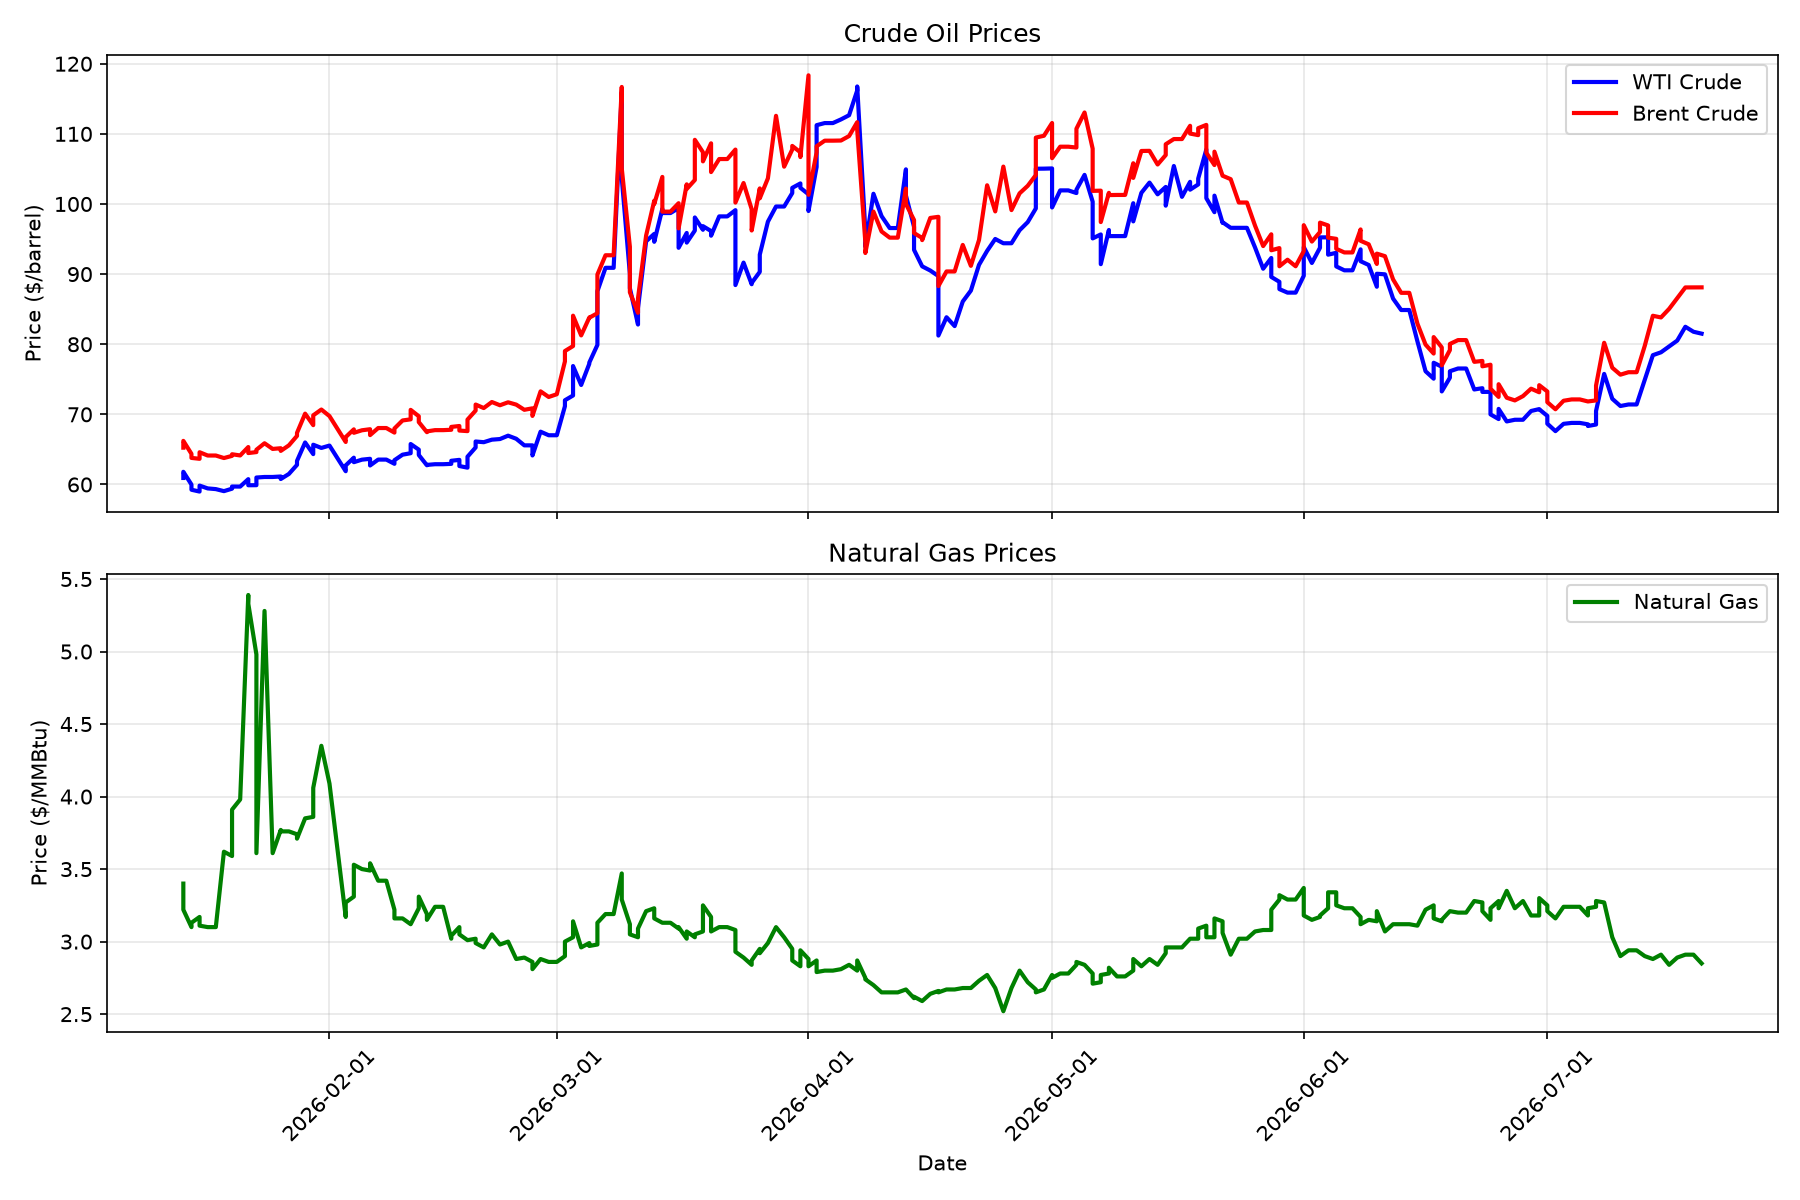
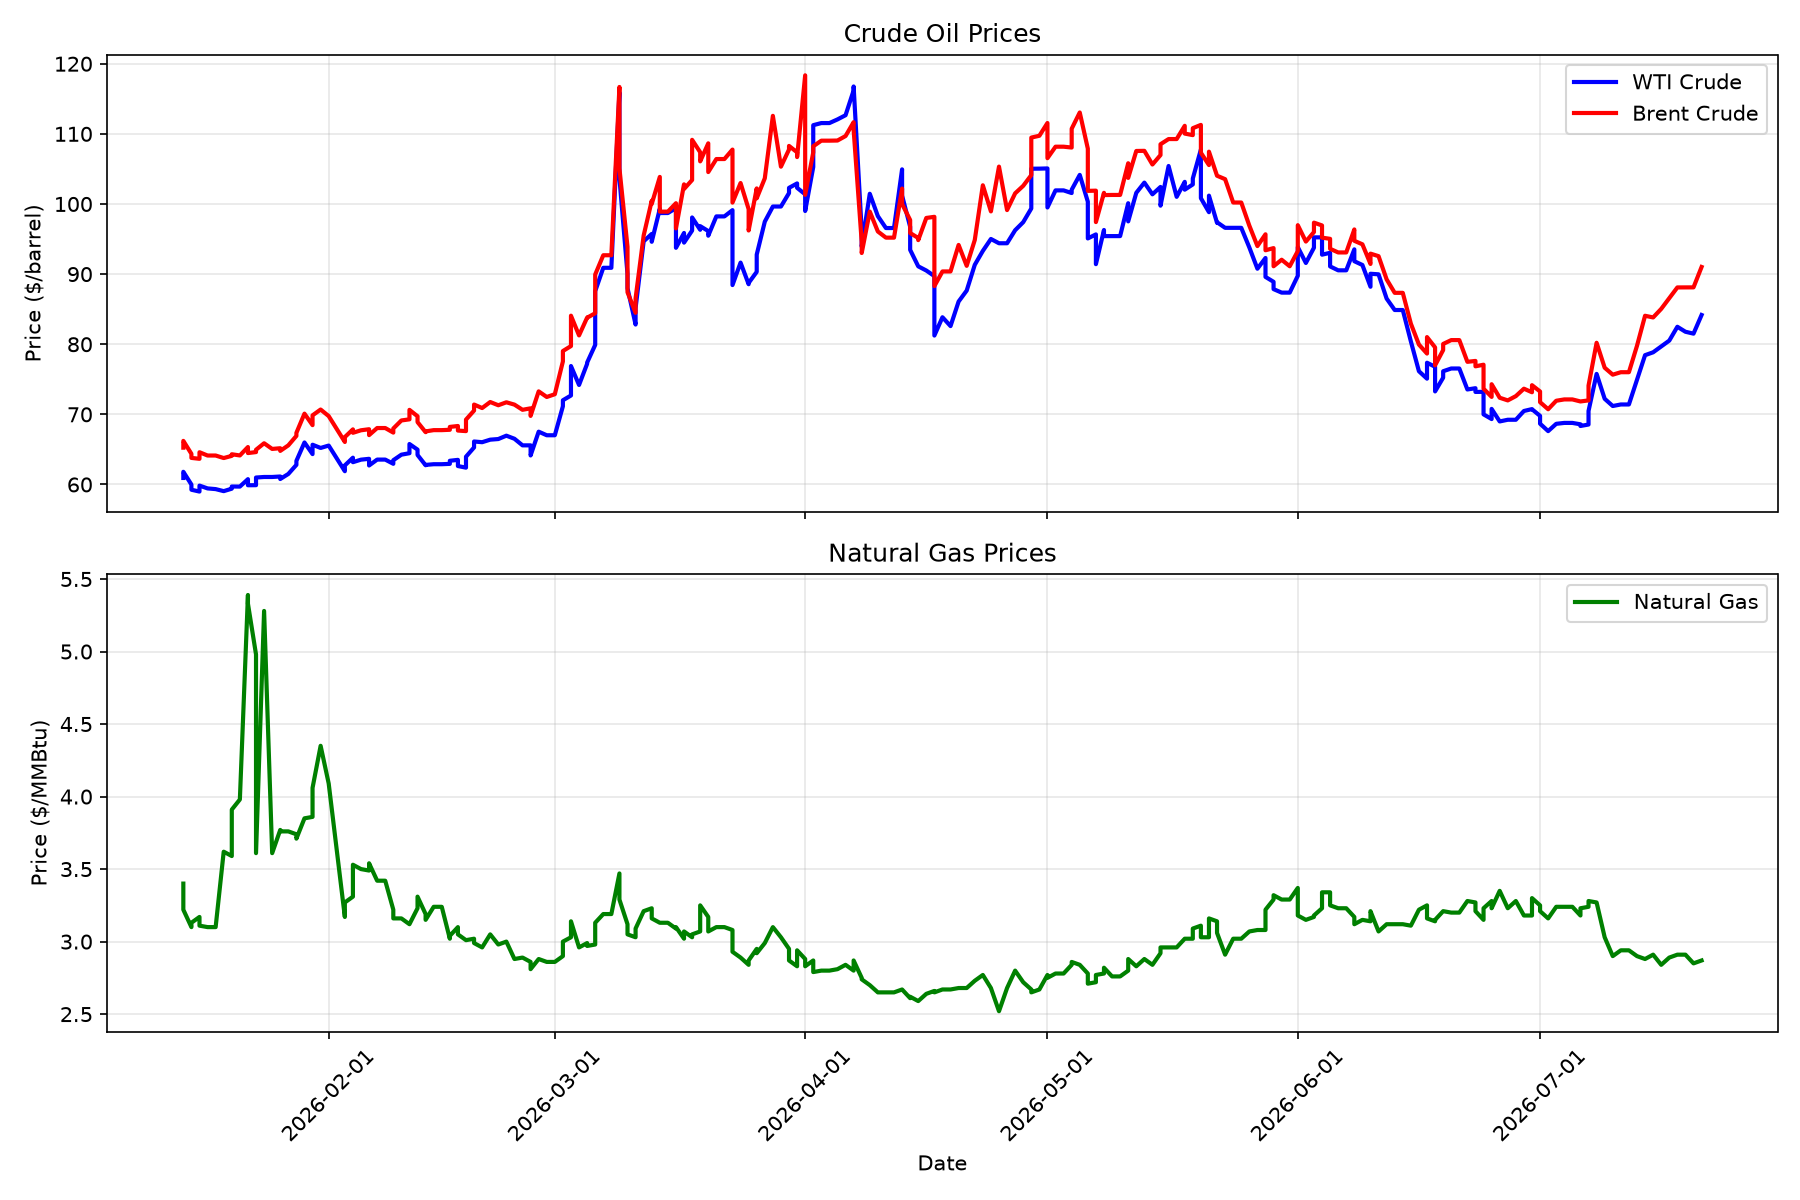
Daily price update: 2026-07-21

diff --git a/README.md b/README.md
@@ -2,29 +2,29 @@
 
 Automated daily tracking of chemical commodity prices and chemical company stocks.
 
-## Latest Prices (Updated: 2026-07-20)
+## Latest Prices (Updated: 2026-07-21)
 
 ### Energy Commodities
 
 | Commodity | Price | Change (24h) | Unit |
 |-----------|-------|--------------|------|
-| WTI Crude Oil | $81.51 | +0.00 (+0.00%) | $/barrel |
-| Brent Crude Oil | $88.11 | +0.00 (+0.00%) | $/barrel |
-| Natural Gas | $2.85 | +0.00 (+0.00%) | $/MMBtu |
-| Heating Oil | $4.00 | +0.00 (+0.00%) | $/gallon |
+| WTI Crude Oil | $84.17 | +0.94 (+1.13%) | $/barrel |
+| Brent Crude Oil | $91.02 | +1.80 (+2.02%) | $/barrel |
+| Natural Gas | $2.87 | +0.01 (+0.24%) | $/MMBtu |
+| Heating Oil | $4.01 | -0.11 (-2.71%) | $/gallon |
 
 ### Chemical Company Stocks
 
 | Company | Ticker | Price | Change (24h) |
 |---------|--------|-------|--------------|
-| Dow Inc. | DOW | $30.27 | +0.35 (+1.17%) |
-| LyondellBasell | LYB | $59.98 | +0.81 (+1.37%) |
-| DuPont | DD | $136.21 | +0.92 (+0.68%) |
-| Air Products | APD | $296.34 | +0.72 (+0.24%) |
-| Linde | LIN | $514.42 | +1.20 (+0.23%) |
-| Eastman Chemical | EMN | $68.03 | -0.57 (-0.83%) |
-| Celanese | CE | $44.88 | -0.82 (-1.79%) |
-| Huntsman | HUN | $11.90 | +0.11 (+0.89%) |
+| Dow Inc. | DOW | $31.06 | +0.68 (+2.26%) |
+| LyondellBasell | LYB | $61.99 | +1.26 (+2.07%) |
+| DuPont | DD | $138.58 | +2.83 (+2.08%) |
+| Air Products | APD | $298.62 | +1.99 (+0.67%) |
+| Linde | LIN | $507.02 | -5.02 (-0.98%) |
+| Eastman Chemical | EMN | $69.16 | +1.08 (+1.59%) |
+| Celanese | CE | $46.51 | +1.95 (+4.39%) |
+| Huntsman | HUN | $12.35 | +0.36 (+3.04%) |
 
 ## Data Sources
 

diff --git a/logs/update_log.md b/logs/update_log.md
@@ -303,3 +303,4 @@ Daily updates to the chemical engineering data repository.
 - **2026-07-18 14:42:58**: Updated 4 energy prices, 8 stocks, 0 FRED series
 - **2026-07-19 14:46:02**: Updated 4 energy prices, 8 stocks, 0 FRED series
 - **2026-07-20 15:44:16**: Updated 4 energy prices, 8 stocks, 0 FRED series
+- **2026-07-21 15:27:50**: Updated 4 energy prices, 8 stocks, 0 FRED series
